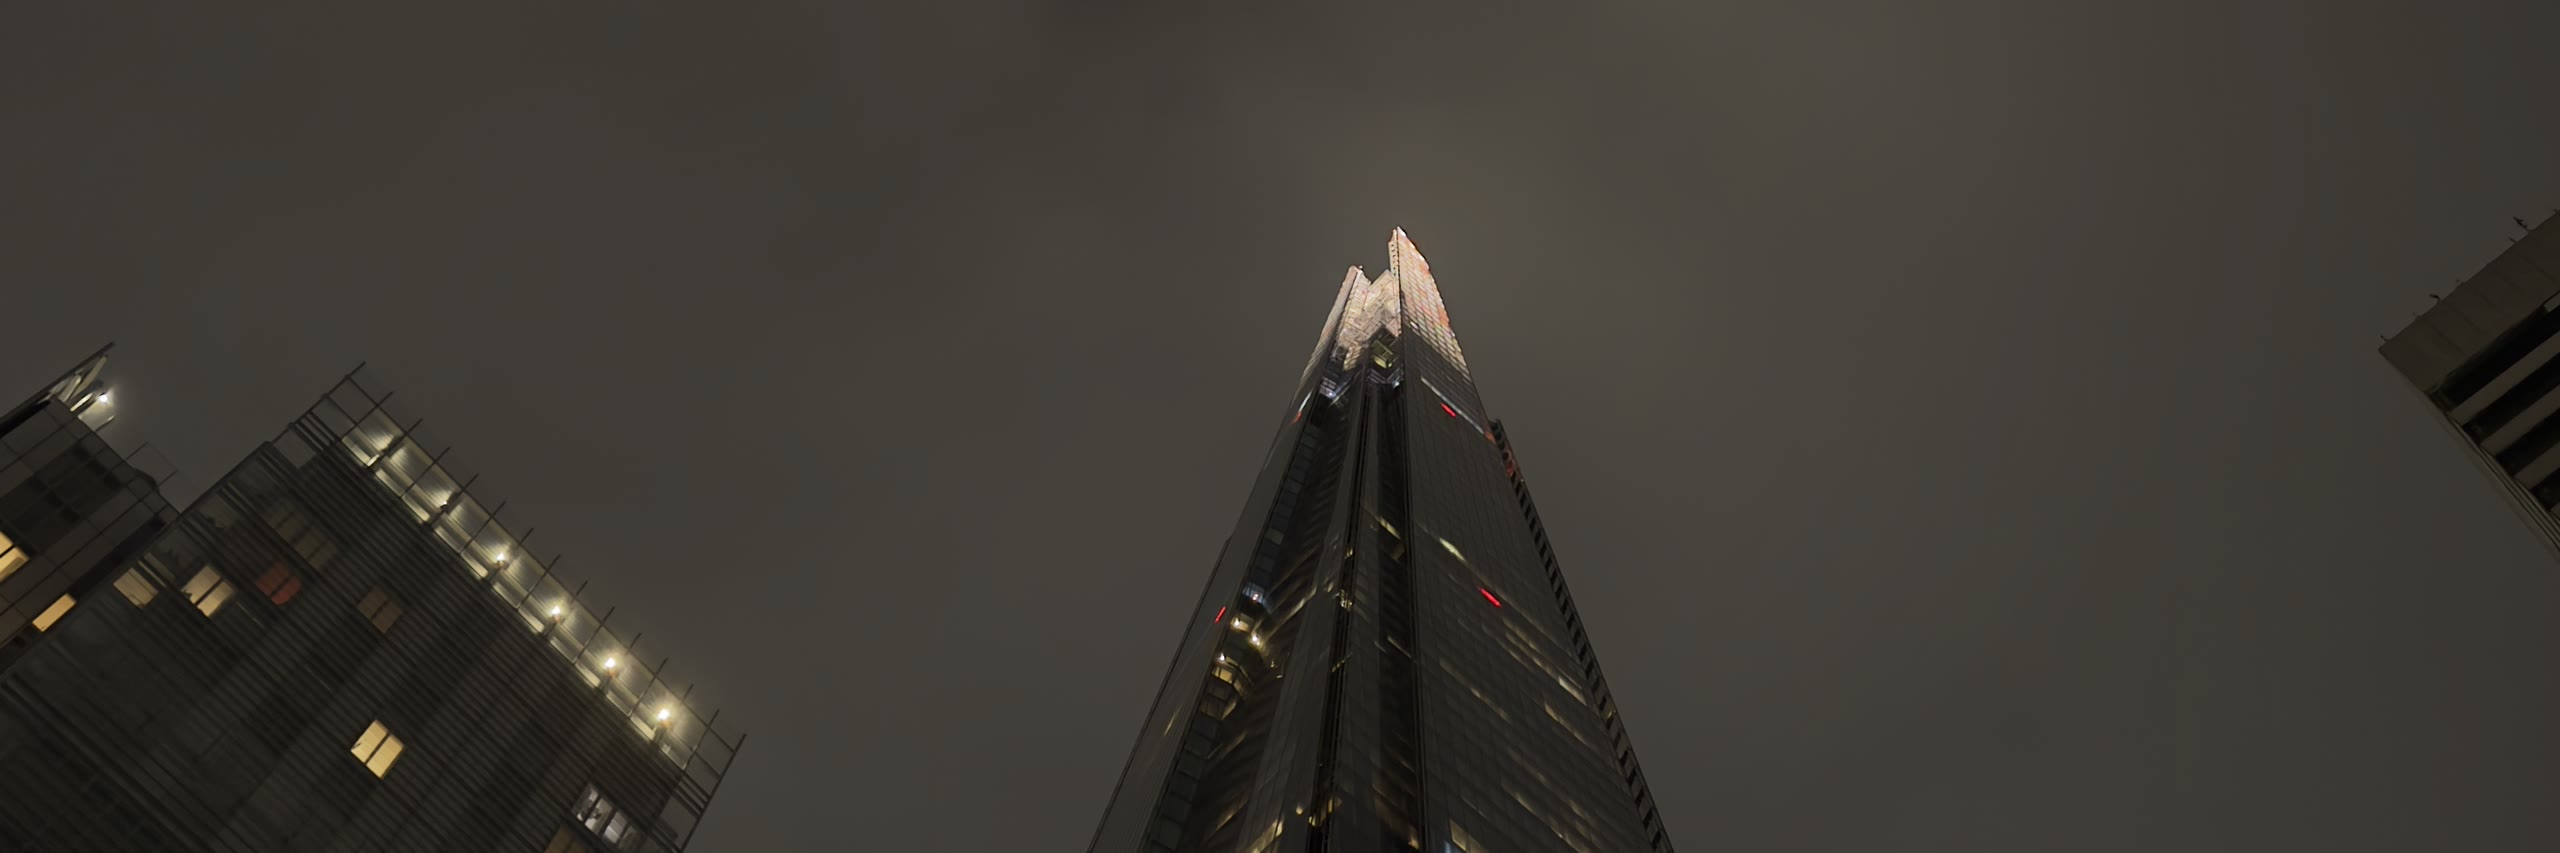
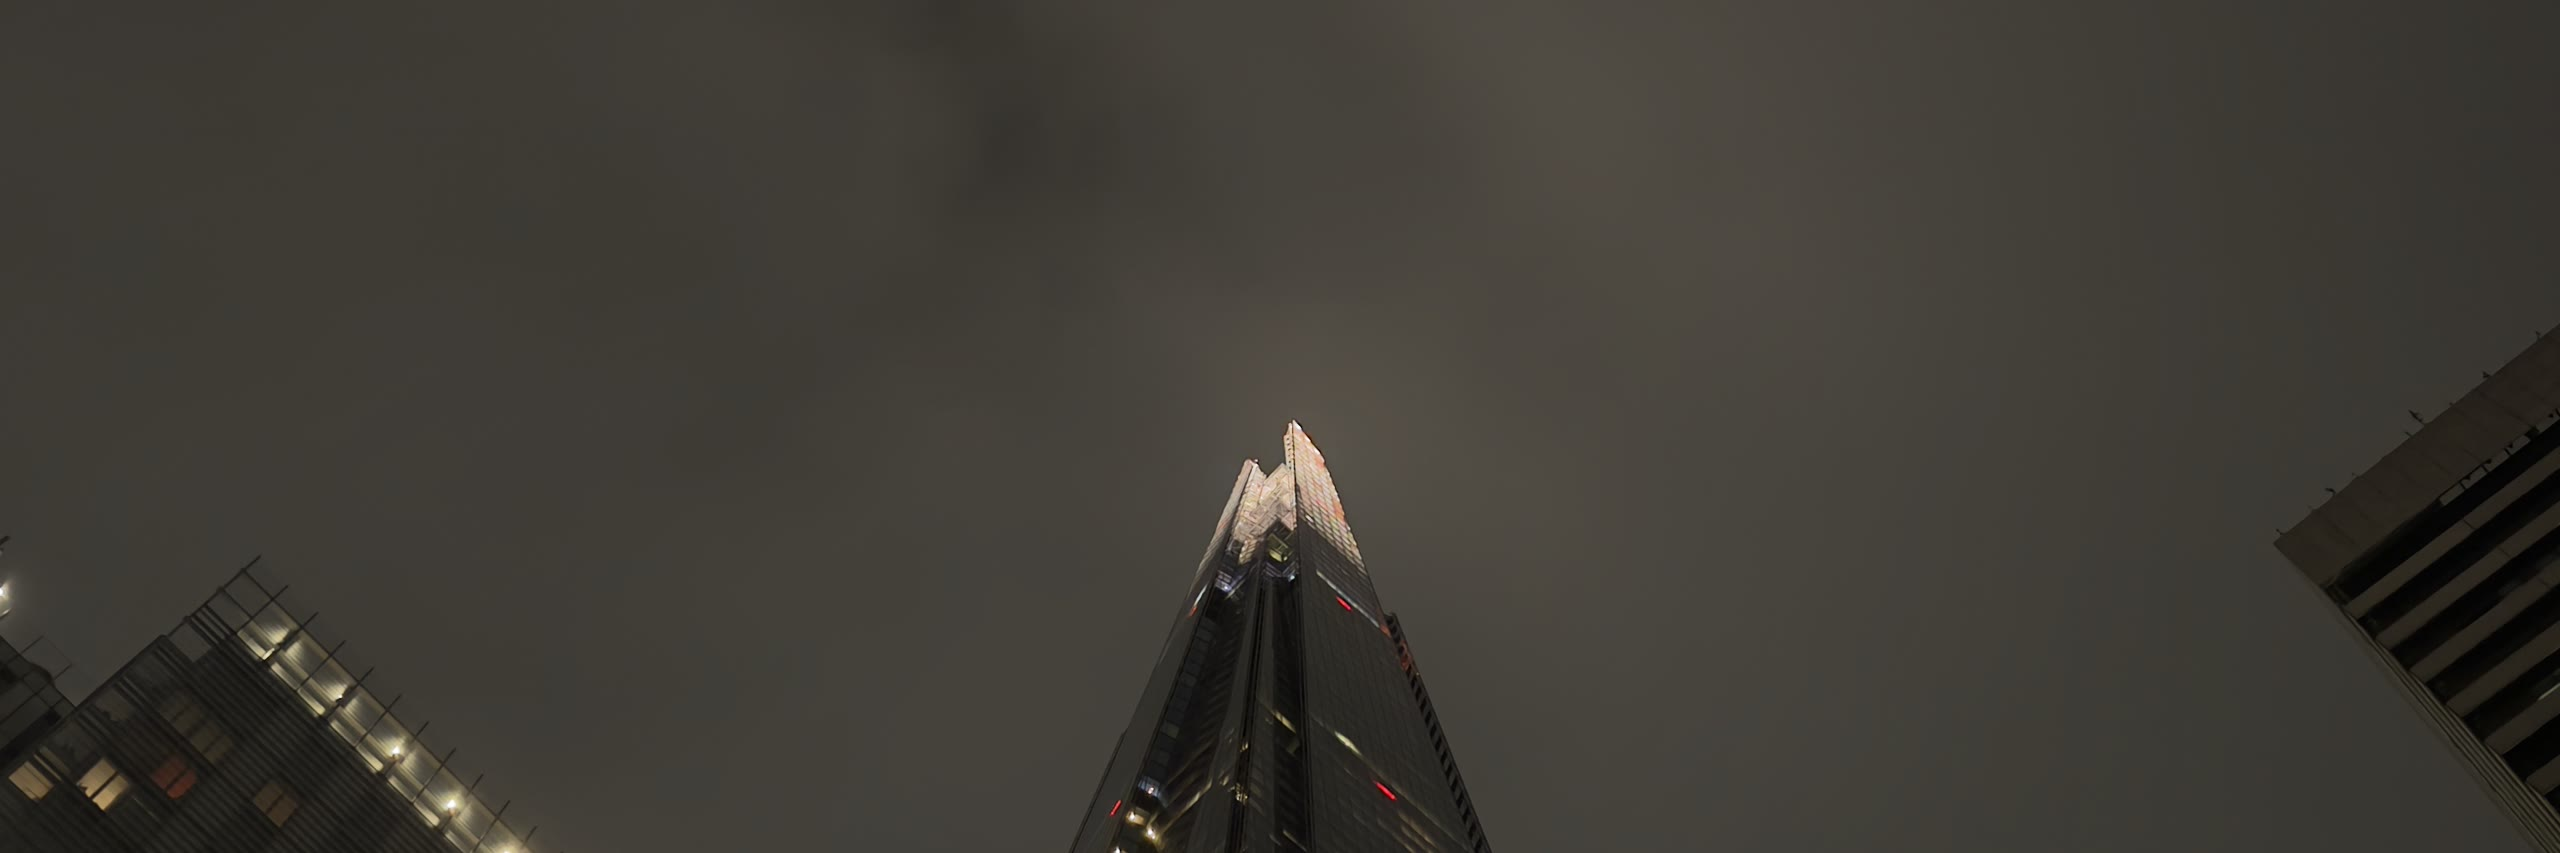
Camera roll: every non-face photo on the site, columns wrap on their own so no gaps; Tech: drop the grey Shard, centre the fog Shard's tip

diff --git a/src/data/camera-roll.ts b/src/data/camera-roll.ts
@@ -1,6 +1,6 @@
-// The camera roll: every photo that isn't on the index or /about, and none of Belal's face
-// (his rules, 23 Nov). Files in public/photos/roll: <id>.jpg is 2000px on the long side for
-// the viewer, <id>-s.jpg is 640px for the wall. Regent Street has its signs and plates blurred.
+// The camera roll: every photo on the site, full frame, plus the ones only shown here, and
+// none of Belal's face (his rules, 23-24 Nov: c-arms and the night portrait stay out). Files in public/photos/roll: <id>.jpg is 2000px on the long side for
+// the viewer, <id>-s.jpg is 640px for the wall. Regent Street has its signs and plates blurred, the F-150 its plate.
 // To add a photo: put both sizes in public/photos/roll and add a line here.
 
 export interface Shot { id: string; cap: string; w: number; h: number }
@@ -8,11 +8,30 @@ export interface Shot { id: string; cap: string; w: number; h: number }
 export const roll: Shot[] = [
   { id: 'n14', cap: 'Golden coastline from the ridge', w: 2000, h: 1126 },
   { id: 'n04', cap: 'Museum of the Future', w: 1500, h: 2000 },
+  { id: 'c-laptop', cap: 'Laptop and earphones', w: 1126, h: 2000 },
+  { id: 'n11', cap: 'Climbing the canyon', w: 1500, h: 2000 },
+  { id: 'n20', cap: 'The Shard in fog', w: 2000, h: 1500 },
   { id: 'n09', cap: 'Smiley on the wing mirror', w: 1126, h: 2000 },
+  { id: 'n13', cap: 'Cove in black and white', w: 2000, h: 1126 },
+  { id: 'c-tone', cap: 'The gym at night', w: 1126, h: 2000 },
   { id: 'n03', cap: 'Hilltop at night', w: 2000, h: 1126 },
+  { id: 'n10', cap: 'Radio and bag on the bonnet', w: 1500, h: 2000 },
+  { id: 'c-desk', cap: 'The desk at night', w: 1126, h: 2000 },
+  { id: 'n12', cap: 'The cove from above', w: 2000, h: 1126 },
   { id: 'n19', cap: 'Regent Street at dusk', w: 1126, h: 2000 },
+  { id: 'n07', cap: 'Flag on the summit', w: 1126, h: 2000 },
+  { id: 'n02', cap: 'Sunset over the sea', w: 2000, h: 1126 },
   { id: 'n05', cap: 'Snake in the rocks', w: 1500, h: 2000 },
+  { id: 'a-coffee', cap: 'Coffee on the way in', w: 1126, h: 2000 },
+  { id: 'n16', cap: 'Walking into the mountains', w: 1179, h: 664 },
+  { id: 'n21', cap: 'Glass towers at dusk', w: 1500, h: 2000 },
+  { id: 'c-gym', cap: 'Gym floor', w: 1126, h: 2000 },
+  { id: 'c-seatbelt', cap: 'Belted in', w: 2000, h: 1266 },
   { id: 'n17', cap: 'Dubai at night', w: 1500, h: 2000 },
+  { id: 'n18', cap: 'Desk lamp', w: 1500, h: 2000 },
+  { id: 'n01', cap: 'Resting on the cliff', w: 1334, h: 2000 },
+  { id: 'n06', cap: 'Night drive', w: 1126, h: 2000 },
   { id: 'c-lab', cap: 'Lab bench', w: 1126, h: 2000 },
+  { id: 'n08', cap: 'The truck in the hills', w: 1500, h: 2000 },
   { id: 'n15', cap: 'Hilltop at night, black and white', w: 2000, h: 1124 },
 ];

diff --git a/src/data/index-words.ts b/src/data/index-words.ts
@@ -1,6 +1,6 @@
 // The four words on the index. Each row opens onto its photos (picked and cropped by Belal on 23 Nov,
 // files in public/photos/index: -d is the 3:1 desktop crop, -p the 4:3 phone crop) and
-// links to the page that word is about. Photos here are never reused on /about or /camera-roll.
+// links to the page that word is about. Photos here are never reused on /about; /camera-roll shows them full frame.
 
 export interface Word {
   w: string;
@@ -14,7 +14,7 @@ export interface Word {
 export const words: Word[] = [
   { w: 'Health', sub: 'lifting, pharmacology, liftkcl', href: '/about', go: 'about', photos: ['health-1', 'health-2', 'health-3', 'health-4'],
     meta: [['word', 'health'], ['training', 'most evenings, lifting'], ['society', 'liftkcl, coming soon'], ['work', 'king’s sport, front of house'], ['degree', 'msci pharmacology, king’s'], ['more', 'about', '/about']] },
-  { w: 'Tech', sub: 'drug-safety data', href: '/projects', go: 'work', photos: ['tech-1', 'tech-2', 'tech-3'],
+  { w: 'Tech', sub: 'drug-safety data', href: '/projects', go: 'work', photos: ['tech-1', 'tech-2'],
     meta: [['word', 'tech'], ['field', 'drug-safety data'], ['projects', '9 data projects'], ['featured', 'causal safety, pv intake, adr reader'], ['methods', 'causal inference, nlp, sql'], ['more', 'work', '/projects']] },
   { w: 'Build', sub: 'mission control, notch', href: '/builds', go: 'builds', photos: ['build-1', 'build-2', 'build-3'],
     meta: [['word', 'build'], ['apps', 'mission control, notch'], ['runs on', 'my mac'], ['built in', 'electron, swift'], ['code', 'private'], ['more', 'builds', '/builds']] },
